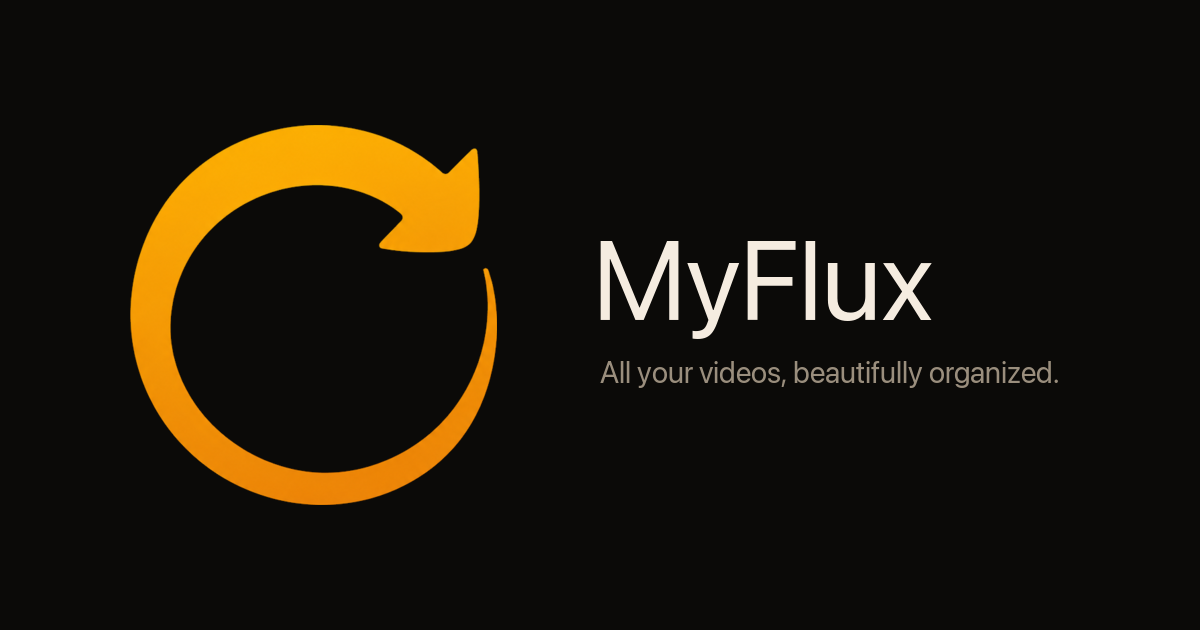
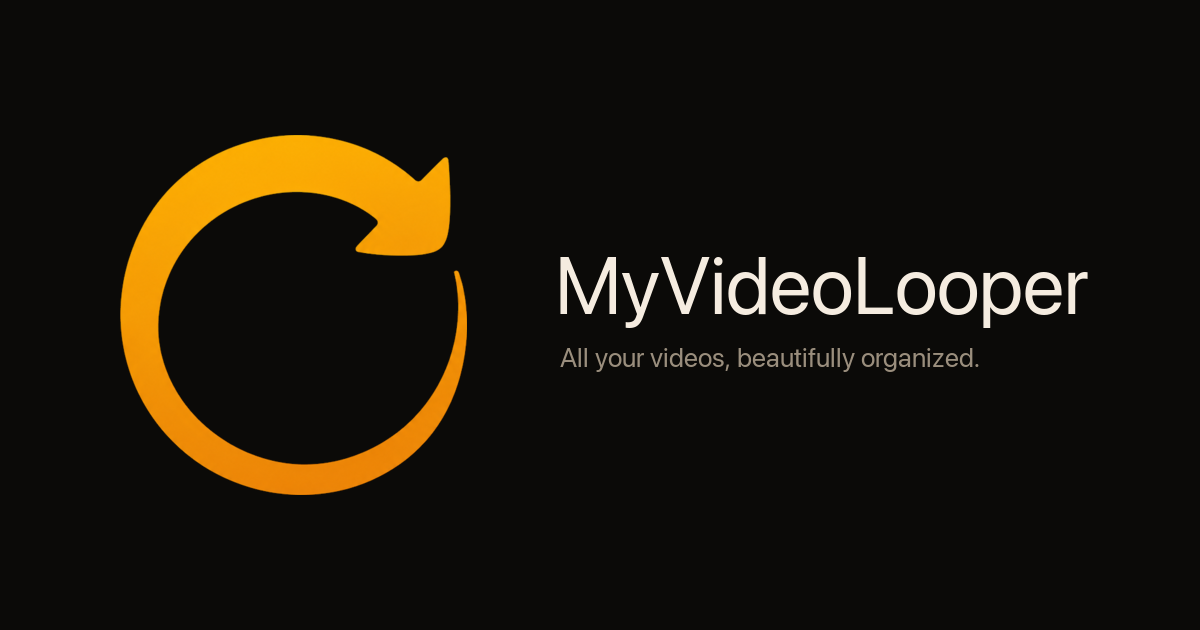
Rename app to MyVideoLooper
Replace the "MyFlux" display name with "MyVideoLooper" across all
user-facing copy, metadata, titles, alt text, and aria labels
(nav, footer, hero, FAQ, privacy/terms/support pages, OG/Twitter).
Regenerate the Open Graph card with the new wordmark.

Unchanged (infrastructure, not the display name): image file paths
(/MyFlux.png, /MyFlux - Promo v0.png), iOS BUNDLE_ID leo-frht.MyFlux,
and the getmyflux.com domain / support email.

diff --git a/app/privacy/page.tsx b/app/privacy/page.tsx
@@ -5,9 +5,9 @@ import type { Metadata } from "next";
 import { SUPPORT_EMAIL } from "../constants";
 
 export const metadata: Metadata = {
-  title: "Privacy Policy — MyFlux",
+  title: "Privacy Policy — MyVideoLooper",
   description:
-    "MyFlux collects no data. Everything stays on your device. Read our full privacy policy.",
+    "MyVideoLooper collects no data. Everything stays on your device. Read our full privacy policy.",
 };
 
 export default function PrivacyPage() {
@@ -30,24 +30,24 @@ export default function PrivacyPage() {
             </header>
 
             <p className="text-mxf-muted leading-relaxed">
-              This Privacy Policy explains how MyFlux handles information when
+              This Privacy Policy explains how MyVideoLooper handles information when
               you use our iOS application.
             </p>
 
             <Section title="The Short Version">
               <div className="p-4 rounded-xl border border-mxf-amber-dim bg-mxf-amber-1/20">
                 <p className="text-mxf-muted leading-relaxed">
-                  MyFlux does not collect, store, or transmit any personal data
-                  from your device. MyFlux does not use analytics, tracking, or
+                  MyVideoLooper does not collect, store, or transmit any personal data
+                  from your device. MyVideoLooper does not use analytics, tracking, or
                   advertising frameworks. All your videos and collection data
                   stay on your iPhone.
                 </p>
               </div>
             </Section>
 
-            <Section title="What MyFlux Accesses">
+            <Section title="What MyVideoLooper Accesses">
               <p className="text-mxf-muted leading-relaxed">
-                MyFlux requests permission to access your iOS Photos library so
+                MyVideoLooper requests permission to access your iOS Photos library so
                 it can display and organize your videos. This access is
                 read-only and limited to your device. We do not upload, copy,
                 or transmit any video content to our servers or any third
@@ -62,10 +62,10 @@ export default function PrivacyPage() {
 
             <Section title="Subscriptions">
               <p className="text-mxf-muted leading-relaxed">
-                MyFlux Pro is offered through Apple&apos;s App Store as an
+                MyVideoLooper Pro is offered through Apple&apos;s App Store as an
                 in-app purchase. We use RevenueCat to validate purchase
                 receipts with Apple — this is the only network communication
-                MyFlux performs. RevenueCat receives an Apple-issued anonymous
+                MyVideoLooper performs. RevenueCat receives an Apple-issued anonymous
                 identifier and your purchase status to verify your
                 subscription. No personal information, email addresses, or
                 Apple ID details are shared.
@@ -79,7 +79,7 @@ export default function PrivacyPage() {
 
             <Section title="No Analytics, No Tracking">
               <p className="text-mxf-muted leading-relaxed">
-                MyFlux does not include any third-party analytics, advertising,
+                MyVideoLooper does not include any third-party analytics, advertising,
                 or tracking SDKs. We do not collect crash reports through third
                 parties. We may receive aggregated, anonymized crash reports
                 through Apple&apos;s first-party App Store Connect tools, which
@@ -89,17 +89,17 @@ export default function PrivacyPage() {
 
             <Section title="Children's Privacy">
               <p className="text-mxf-muted leading-relaxed">
-                MyFlux is not directed to children under 13. We do not
+                MyVideoLooper is not directed to children under 13. We do not
                 knowingly collect any data from anyone, including children.
               </p>
             </Section>
 
             <Section title="Your Rights">
               <p className="text-mxf-muted leading-relaxed">
-                Since MyFlux does not collect personal data, there is no
+                Since MyVideoLooper does not collect personal data, there is no
                 personal data to access, correct, or delete on our end. You can
                 delete all collection data stored on your device at any time
-                from MyFlux → Settings → Withdraw Consent & Delete Data.
+                from MyVideoLooper → Settings → Withdraw Consent & Delete Data.
               </p>
             </Section>
 
@@ -107,7 +107,7 @@ export default function PrivacyPage() {
               <p className="text-mxf-muted leading-relaxed">
                 We may update this policy from time to time. The
                 &quot;Effective&quot; date at the top indicates when it was
-                last revised. Continued use of MyFlux after changes constitutes
+                last revised. Continued use of MyVideoLooper after changes constitutes
                 acceptance of the updated policy.
               </p>
             </Section>
@@ -123,7 +123,7 @@ export default function PrivacyPage() {
                 </a>
               </p>
               <p className="text-mxf-muted leading-relaxed">
-                MyFlux is developed by Leonardo Ferhati, based in Copenhagen,
+                MyVideoLooper is developed by Leonardo Ferhati, based in Copenhagen,
                 Denmark.
               </p>
             </Section>

diff --git a/app/components/FaqAccordion.tsx b/app/components/FaqAccordion.tsx
@@ -4,9 +4,9 @@ import { useState } from "react";
 
 const faqs: { question: string; answer: string; link?: { text: string; href: string } }[] = [
   {
-    question: "How do I add videos to MyFlux?",
+    question: "How do I add videos to MyVideoLooper?",
     answer:
-      "MyFlux reads videos directly from your iPhone's Photos library. Tap any video in the Library tab to add it to a collection. There's nothing to import or upload — MyFlux just shows you what's already on your phone.",
+      "MyVideoLooper reads videos directly from your iPhone's Photos library. Tap any video in the Library tab to add it to a collection. There's nothing to import or upload — MyVideoLooper just shows you what's already on your phone.",
   },
   {
     question: "How do I create a collection?",
@@ -16,38 +16,38 @@ const faqs: { question: string; answer: string; link?: { text: string; href: str
   {
     question: "Are my videos uploaded anywhere?",
     answer:
-      "No. Everything stays on your iPhone. MyFlux has no cloud, no servers, and no accounts. Your camera roll never leaves your device.",
+      "No. Everything stays on your iPhone. MyVideoLooper has no cloud, no servers, and no accounts. Your camera roll never leaves your device.",
     link: { text: "Privacy Policy", href: "/privacy" },
   },
   {
-    question: "What's included in MyFlux Pro?",
+    question: "What's included in MyVideoLooper Pro?",
     answer:
       "Pro removes the 3-collection limit for free users, plus priority support and access to all future features. Available as a $0.99/month subscription or a $9.99 one-time lifetime purchase.",
   },
   {
     question: "How do I cancel my subscription?",
     answer:
-      "On your iPhone: Settings → Apple ID → Subscriptions → MyFlux → Cancel. Apple handles all subscriptions directly.",
+      "On your iPhone: Settings → Apple ID → Subscriptions → MyVideoLooper → Cancel. Apple handles all subscriptions directly.",
   },
   {
     question: "I bought Pro on a different device. How do I restore it?",
     answer:
-      "Open MyFlux → Settings → Restore Purchases. Make sure you're signed into the same Apple ID you used for the original purchase.",
+      "Open MyVideoLooper → Settings → Restore Purchases. Make sure you're signed into the same Apple ID you used for the original purchase.",
   },
   {
     question: "How do I request a refund?",
     answer:
-      "Apple handles all refunds. Visit reportaproblem.apple.com on any device, sign in, and request a refund for your MyFlux purchase. We have no control over the refund decision, but if you have concerns, email us at support@getmyflux.com and we'll do our best to help.",
+      "Apple handles all refunds. Visit reportaproblem.apple.com on any device, sign in, and request a refund for your MyVideoLooper purchase. We have no control over the refund decision, but if you have concerns, email us at support@getmyflux.com and we'll do our best to help.",
   },
   {
     question: "Where is my data stored?",
     answer:
-      "All collection information is stored locally on your iPhone in MyFlux's app database. If you uninstall the app, all collection data is deleted with it. Your videos in the Photos library are not affected — they belong to iOS, not to MyFlux.",
+      "All collection information is stored locally on your iPhone in MyVideoLooper's app database. If you uninstall the app, all collection data is deleted with it. Your videos in the Photos library are not affected — they belong to iOS, not to MyVideoLooper.",
   },
   {
     question: "How do I delete all my data?",
     answer:
-      "Open MyFlux → Settings → Withdraw Consent & Delete Data. This deletes all your collections and resets the app to its initial state. Your videos in the Photos library are not affected.",
+      "Open MyVideoLooper → Settings → Withdraw Consent & Delete Data. This deletes all your collections and resets the app to its initial state. Your videos in the Photos library are not affected.",
   },
   {
     question: "I have a feature idea or found a bug.",
@@ -55,7 +55,7 @@ const faqs: { question: string; answer: string; link?: { text: string; href: str
       "Email support@getmyflux.com — we read every message and always appreciate user feedback.",
   },
   {
-    question: "Can I get MyFlux on Android?",
+    question: "Can I get MyVideoLooper on Android?",
     answer:
       "Currently iOS only. No Android plans at this time.",
   },

diff --git a/app/terms/page.tsx b/app/terms/page.tsx
@@ -5,8 +5,8 @@ import type { Metadata } from "next";
 import { SUPPORT_EMAIL } from "../constants";
 
 export const metadata: Metadata = {
-  title: "Terms of Use — MyFlux",
-  description: "Terms of Use for the MyFlux iOS app.",
+  title: "Terms of Use — MyVideoLooper",
+  description: "Terms of Use for the MyVideoLooper iOS app.",
 };
 
 export default function TermsPage() {
@@ -29,14 +29,14 @@ export default function TermsPage() {
             </header>
 
             <p className="text-mxf-muted leading-relaxed">
-              By downloading and using MyFlux (&quot;the App&quot;), you agree
+              By downloading and using MyVideoLooper (&quot;the App&quot;), you agree
               to these Terms of Use.
             </p>
 
             <Section title="License">
               <p className="text-mxf-muted leading-relaxed">
                 We grant you a limited, non-exclusive, non-transferable,
-                revocable license to use MyFlux on your iOS devices, solely for
+                revocable license to use MyVideoLooper on your iOS devices, solely for
                 personal, non-commercial purposes, subject to Apple&apos;s App
                 Store Terms of Service.
               </p>
@@ -68,7 +68,7 @@ export default function TermsPage() {
 
             <Section title="Subscriptions">
               <p className="text-mxf-muted leading-relaxed">
-                MyFlux Pro is offered via an auto-renewable monthly
+                MyVideoLooper Pro is offered via an auto-renewable monthly
                 subscription and a one-time lifetime purchase, sold through
                 Apple&apos;s App Store. Subscriptions automatically renew until
                 cancelled. You can manage or cancel your subscription anytime

diff --git a/app/layout.tsx b/app/layout.tsx
@@ -11,7 +11,7 @@ const inter = Inter({
 
 export const metadata: Metadata = {
   metadataBase: new URL("https://getmyflux.com"),
-  title: "MyFlux — All your videos, beautifully organized.",
+  title: "MyVideoLooper — All your videos, beautifully organized.",
   description:
     "Collect, loop, and revisit the moments that matter — all from your camera roll. Fully private — everything stays on your device.",
   keywords: [
@@ -23,16 +23,16 @@ export const metadata: Metadata = {
     "local-only",
   ],
   openGraph: {
-    title: "MyFlux — All your videos, beautifully organized.",
+    title: "MyVideoLooper — All your videos, beautifully organized.",
     description:
       "Stop scrolling. Start watching. Collect, loop, and revisit the moments that matter.",
     url: "https://getmyflux.com",
-    siteName: "MyFlux",
+    siteName: "MyVideoLooper",
     type: "website",
   },
   twitter: {
     card: "summary_large_image",
-    title: "MyFlux — All your videos, beautifully organized.",
+    title: "MyVideoLooper — All your videos, beautifully organized.",
     description:
       "Stop scrolling. Start watching. Collect, loop, and revisit the moments that matter.",
   },

diff --git a/app/components/Footer.tsx b/app/components/Footer.tsx
@@ -10,12 +10,12 @@ export default function Footer() {
           <div className="flex items-center gap-2">
             <Image
               src="/app-icon.png"
-              alt="MyFlux icon"
+              alt="MyVideoLooper icon"
               width={24}
               height={24}
               className="rounded-md"
             />
-            <span className="font-semibold text-mxf-text">MyFlux</span>
+            <span className="font-semibold text-mxf-text">MyVideoLooper</span>
           </div>
 
           <nav className="flex flex-wrap items-center justify-center gap-x-6 gap-y-2 text-sm text-mxf-muted">
@@ -37,7 +37,7 @@ export default function Footer() {
           </nav>
 
           <div className="flex flex-col items-center md:items-end gap-1 text-xs text-mxf-muted">
-            <span>© 2026 MyFlux</span>
+            <span>© 2026 MyVideoLooper</span>
           </div>
         </div>
       </div>

diff --git a/app/support/page.tsx b/app/support/page.tsx
@@ -6,8 +6,8 @@ import type { Metadata } from "next";
 import { SUPPORT_EMAIL } from "../constants";
 
 export const metadata: Metadata = {
-  title: "Support — MyFlux",
-  description: "Get help with MyFlux. FAQ, contact, and more.",
+  title: "Support — MyVideoLooper",
+  description: "Get help with MyVideoLooper. FAQ, contact, and more.",
 };
 
 export default function SupportPage() {
@@ -45,7 +45,7 @@ export default function SupportPage() {
           </section>
 
           <section className="p-6 rounded-xl border border-mxf-border bg-mxf-surface space-y-3 text-sm text-mxf-muted leading-relaxed">
-            <p>MyFlux is developed by Leonardo Ferhati in Copenhagen.</p>
+            <p>MyVideoLooper is developed by Leonardo Ferhati in Copenhagen.</p>
             <p>
               Privacy Policy:{" "}
               <Link href="/privacy" className="text-mxf-amber hover:underline">

diff --git a/app/components/HeroSection.tsx b/app/components/HeroSection.tsx
@@ -8,7 +8,7 @@ export default function HeroSection() {
         <div className="flex justify-center">
           <Image
             src="/MyFlux.png"
-            alt="MyFlux app icon"
+            alt="MyVideoLooper app icon"
             width={120}
             height={120}
             className="rounded-[26px] shadow-[0_20px_60px_rgba(245,158,11,0.25)]"
@@ -45,7 +45,7 @@ export default function HeroSection() {
             target="_blank"
             rel="noopener noreferrer"
             className="inline-flex items-center gap-2 px-6 py-3 rounded-xl bg-mxf-text text-mxf-bg font-semibold text-sm hover:bg-mxf-amber transition-colors"
-            aria-label="Download MyFlux on the App Store"
+            aria-label="Download MyVideoLooper on the App Store"
           >
             <AppleIcon />
             Download on the App Store

diff --git a/app/components/Navbar.tsx b/app/components/Navbar.tsx
@@ -21,13 +21,13 @@ export default function Navbar() {
         <Link href="/" className="flex items-center gap-2 group">
           <Image
             src="/app-icon.png"
-            alt="MyFlux icon"
+            alt="MyVideoLooper icon"
             width={32}
             height={32}
             className="rounded-lg"
           />
           <span className="font-semibold text-mxf-text group-hover:text-mxf-amber transition-colors">
-            MyFlux
+            MyVideoLooper
           </span>
         </Link>
 

diff --git a/app/components/AppPreview.tsx b/app/components/AppPreview.tsx
@@ -16,7 +16,7 @@ export default function AppPreview() {
         <div className="mx-auto max-w-4xl">
           <Image
             src="/MyFlux - Promo v0.png"
-            alt="MyFlux on iPhone — Library, Collections, and Loop screens"
+            alt="MyVideoLooper on iPhone — Library, Collections, and Loop screens"
             width={1448}
             height={1086}
             className="w-full h-auto"

diff --git a/app/components/HowItWorks.tsx b/app/components/HowItWorks.tsx
@@ -31,7 +31,7 @@ export default function HowItWorks() {
             How it works
           </h2>
           <p className="text-mxf-muted max-w-xl mx-auto">
-            MyFlux stores everything locally. No uploads, no tracking, no data
+            MyVideoLooper stores everything locally. No uploads, no tracking, no data
             brokers.
           </p>
         </div>

diff --git a/app/components/Pricing.tsx b/app/components/Pricing.tsx
@@ -90,7 +90,7 @@ export default function Pricing() {
                     : "bg-mxf-text text-mxf-bg hover:bg-mxf-amber"
                 }`}
               >
-                Get MyFlux
+                Get MyVideoLooper
               </a>
             </div>
           ))}

diff --git a/app/constants.ts b/app/constants.ts
@@ -1,4 +1,4 @@
-// App-wide constants for MyFlux.
+// App-wide constants for MyVideoLooper.
 // NOTE: Apple ID 6761893510 is the live App Store ID.
 export const APP_STORE_URL = "https://apps.apple.com/app/id6761893510";
 export const SUPPORT_EMAIL = "support@getmyflux.com";
